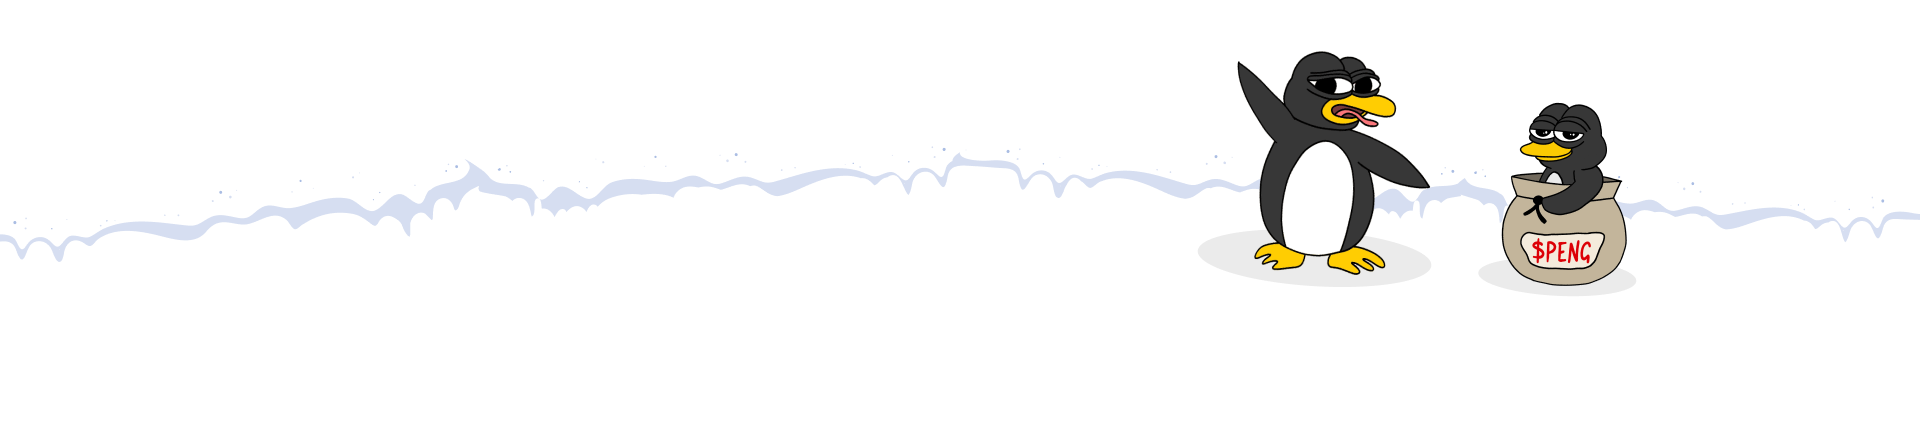
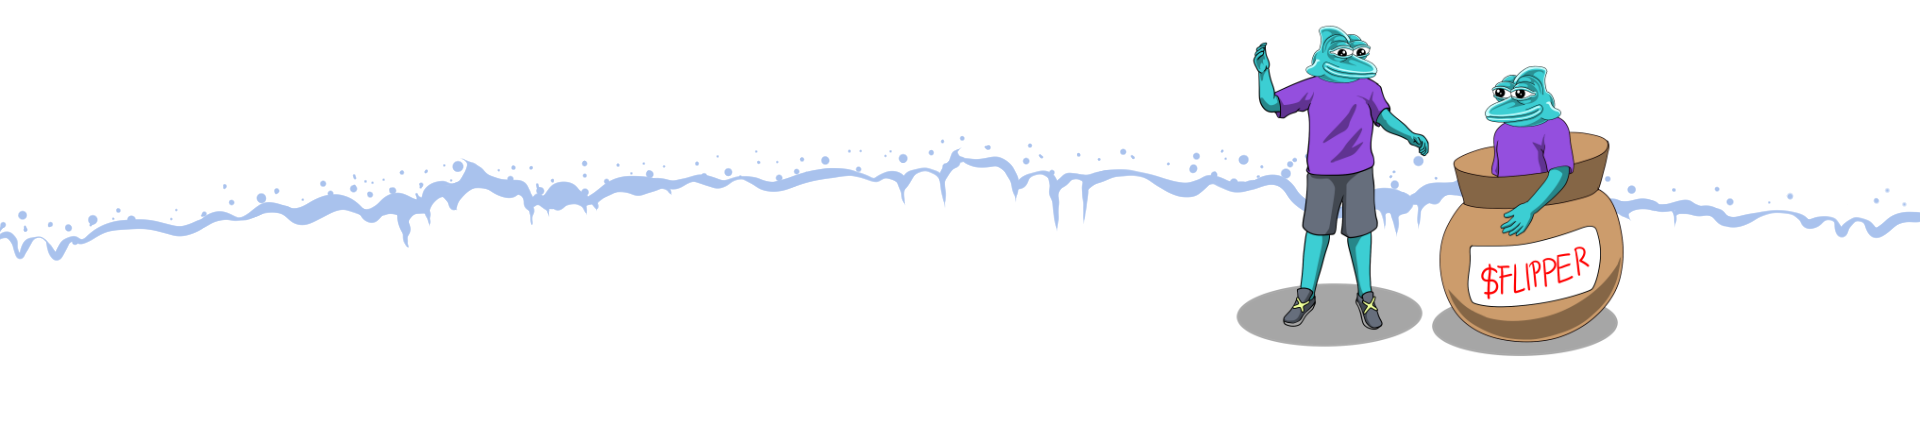
update

Changed region(s): [[0.0, 0.0595, 1.0, 0.833]]

diff --git a/index.html b/index.html
@@ -43,8 +43,32 @@
   </head>
   <body>
 
-    <style>   
+    <style>    
+    .menggantung{
+      width: 408px;
+      max-width: 100%;
+      height: auto;
+      object-fit: contain;
 
+      position: absolute;
+      z-index: 99;
+
+      left: 48.5%;
+      transform: translateX(-50%);
+      top: -94%;
+    }
+
+    @media screen and (max-width:500px){
+      .banner__bottom{
+        margin-bottom: 100px;
+        margin-top: 130px;
+      }
+      .menggantung{
+          width: 300px; 
+          top: -135px;
+        }
+    }
+    
     </style>
 
     <main>
@@ -200,10 +224,11 @@
           </div>
         </div>
         <div class="banner__bottom">
-          <img class="snow_bg" src="assets/svg/banner_elipse.svg" />
+          <img class="snow_bg" src="assets/svg/banner_elipse.svg" /> 
           <img class="snow" src="assets/svg/snow.svg" />
-          <img class="ping" src="assets/png/ping.png" />
-          <img class="pinghand" src="assets/png/pinghand.png" />
+          <!-- <img class="ping" src="assets/png/ping12.png" /> 
+           <img class="hand" src="./assets/png/hand (2).png" alt=""> -->
+           <img class="menggantung" src="./assets/png/flipper_snow (1).png" alt=""> 
         </div>
         <div class="_partners container">
           <article class="partners"><h2>Our partners</h2></article>

diff --git a/css/style.css b/css/style.css
@@ -331,6 +331,7 @@ main {
   width: 100dvw;
   height: 280px;
   margin-top: 340px;
+  margin-bottom: 230px;
 }
 .banner__transition {
   position: absolute;
